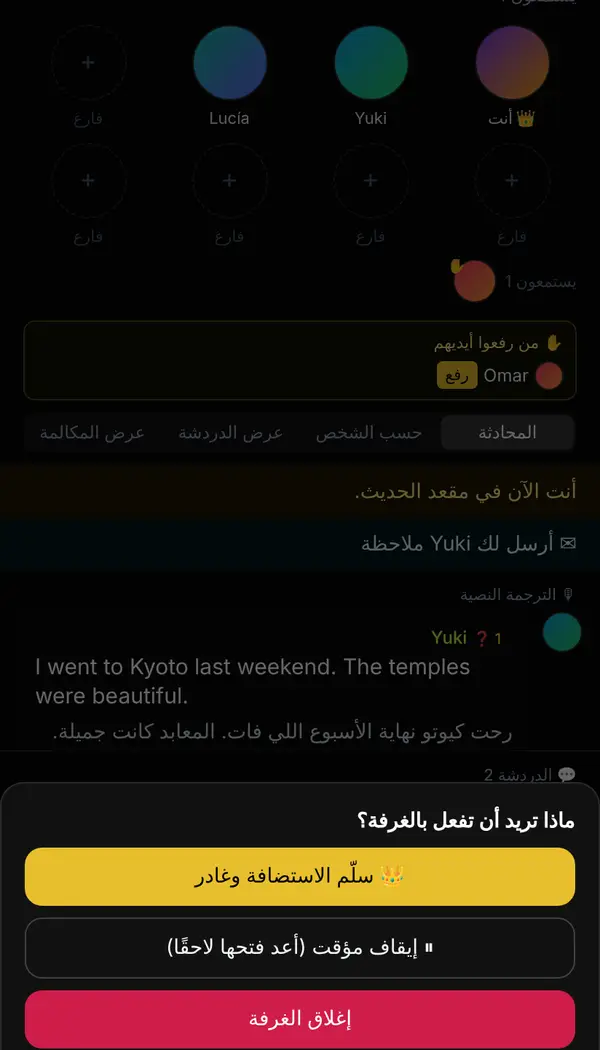
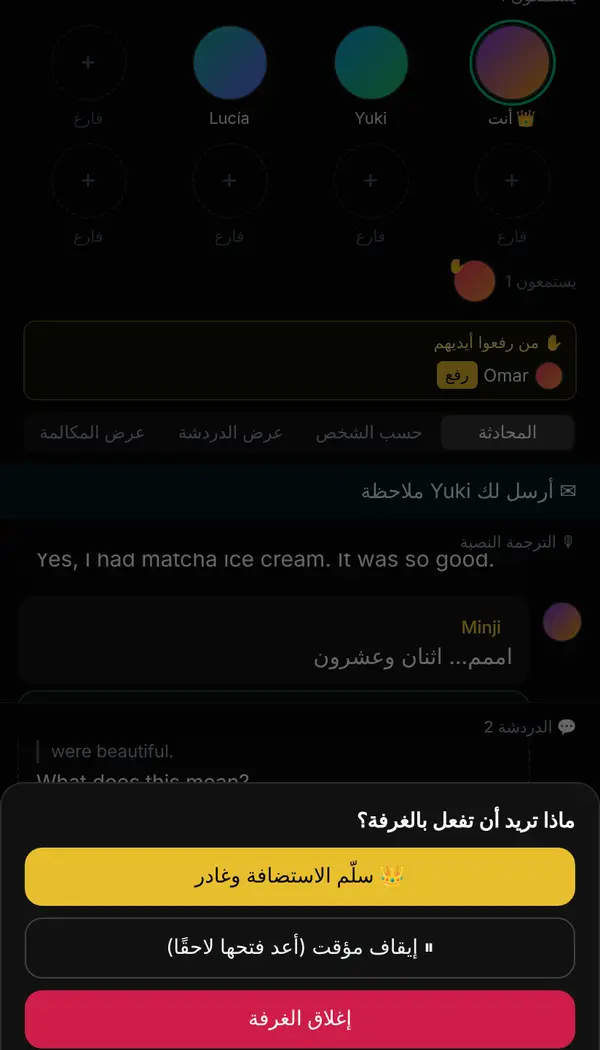
2.69: 💡 힌트를 새로워진 점(8장째)·사용법·캡처에, 같은 라틴 글자 언어 짝도 흔한 낱말로 가르기, 힌트 오면 자막 칸 아래로
Claude-Session: https://claude.ai/code/session_01NBtoqSa6j8KRWBJEzWRKAb

diff --git a/src/lib/copy.ts b/src/lib/copy.ts
@@ -572,6 +572,8 @@ const generatedWhatsNewOverlay = {
   whatsNewLayoutsBody: "At the top, choose “Conversation”, “Chat view”, “Call view” and more. Captions and chat sit in separate boxes, and below you join with “Speak”, “Listen”, “Chat only” or “Voice only”.",
   whatsNewHostTitle: "Hand over or pause a room",
   whatsNewHostBody: "When you leave, “Make host” keeps the room going, or pause it and use “Reopen” in the lobby to open the same room again.",
+  whatsNewHintTitle: "💡 A hint when you’re stuck",
+  whatsNewHintBody: "Say something in your own language in a room and, under that line, only you see “Try saying it like this”. Under “Hints”, choose “Show”, “Just a peek” or “Off”.",
   whatsNewInviteTitle: "Invite friends with a link",
   whatsNewInviteBody: "In My, “➕ Invite friends” sends a link through any messenger. Whoever opens it installs the app, signs in, picks a name and they're in. ➕ in a room invites to that room.",
   whatsNewGroupsTitle: "Group chats and group calls",
@@ -1065,6 +1067,8 @@ export const copy = {
     whatsNewLayoutsBody: "방 위에서 ‘대화 보기’·‘채팅 위주’·‘통화 위주’ 등을 골라요. 자막과 채팅은 칸이 나뉘고, 아래에서 ‘말하기’·‘듣기’·‘채팅만’·‘보이스만’으로 참여 방식을 골라요.",
     whatsNewHostTitle: "방장 넘기기와 잠시 닫기",
     whatsNewHostBody: "나갈 때 ‘방장 넘기기’로 방을 이어 가게 하거나, ‘잠시 닫기’ 뒤 로비에서 ‘다시 열기’로 같은 방을 다시 열어요.",
+    whatsNewHintTitle: "💡 막히면 힌트",
+    whatsNewHintBody: "말하는 방에서 편한 말로 말하면(‘어.. 스물둘..’) 그 줄 아래 나에게만 ‘이렇게 말해 보세요’가 떠요. 아래 ‘힌트’에서 ‘바로 보기’·‘살짝만’·‘끄기’를 골라요.",
     whatsNewInviteTitle: "친구를 링크로 초대",
     whatsNewInviteBody: "‘My’ 위 ‘➕ 친구 초대’로 카카오톡 등에 링크를 보내요. 받은 사람은 앱을 깔고 로그인해 이름만 정하면 바로 들어와요. 방 위 ➕는 그 방으로 초대해요.",
     whatsNewGroupsTitle: "단체방과 단체 통화",
@@ -2247,6 +2251,8 @@ export const copy = {
     whatsNewLayoutsBody: "At the top, choose “Conversation”, “Chat view”, “Call view” and more. Captions and chat sit in separate boxes, and below you join with “Speak”, “Listen”, “Chat only” or “Voice only”.",
     whatsNewHostTitle: "Hand over or pause a room",
     whatsNewHostBody: "When you leave, “Make host” keeps the room going, or pause it and use “Reopen” in the lobby to open the same room again.",
+    whatsNewHintTitle: "💡 A hint when you’re stuck",
+    whatsNewHintBody: "Say something in your own language in a room and, under that line, only you see “Try saying it like this”. Under “Hints”, choose “Show”, “Just a peek” or “Off”.",
     whatsNewInviteTitle: "Invite friends with a link",
     whatsNewInviteBody: "In My, “➕ Invite friends” sends a link through any messenger. Whoever opens it installs the app, signs in, picks a name and they're in. ➕ in a room invites to that room.",
     whatsNewGroupsTitle: "Group chats and group calls",
@@ -3426,6 +3432,8 @@ export const copy = {
     whatsNewLayoutsBody: "Arriba, elige “Conversación”, “Vista chat”, “Vista llamada” y más. Subtítulos y chat van en cuadros separados, y abajo eliges “Hablar”, “Escuchar”, “Solo chat” o “Solo voz”.",
     whatsNewHostTitle: "Cede o pausa la sala",
     whatsNewHostBody: "Al salir, “Ceder anfitrión” mantiene la sala, o pausa y usa “Reabrir” en el inicio para abrir la misma sala otra vez.",
+    whatsNewHintTitle: "💡 Una pista si te atascas",
+    whatsNewHintBody: "Si dices algo en tu idioma en una sala, debajo de esa línea solo tú ves “Prueba a decirlo así”. En “Pistas”, elige “Mostrar”, “Solo un vistazo” o “No”.",
     whatsNewInviteTitle: "Invita a amigos con un enlace",
     whatsNewInviteBody: "En Mi espacio, “➕ Invitar amigos” envía un enlace por cualquier mensajería. Quien lo abre instala la app, inicia sesión, elige un nombre y ya está dentro. ➕ en una sala invita a esa sala.",
     whatsNewGroupsTitle: "Grupos y llamadas en grupo",

diff --git a/src/lib/roleplay/transcript.ts b/src/lib/roleplay/transcript.ts
@@ -137,19 +137,52 @@ export function whichLanguage(text: string, languages: readonly string[]): strin
 }
 
 /**
- * Whether a room line leans on the speaker's own language: their own
- * language's script makes up a real share of it ("어.. 스물둘..", "I'm 스물둘").
- * Only answerable when the two languages are written differently — Spanish and
- * English share letters, so nothing is claimed and no hint is offered.
+ * Small, very common words (and hesitation sounds) of the Latin-script
+ * languages — enough to tell "euh… vingt-deux" from English when both are
+ * written in the same letters. Not a language detector: it only has to notice a
+ * line that is mostly someone's own language.
+ */
+const COMMON_WORDS: Record<string, readonly string[]> = {
+  en: ["the", "a", "i", "you", "is", "are", "and", "to", "of", "it", "in", "my", "what", "how", "yes", "no", "that", "this", "was", "do", "have", "me", "we", "uh", "um", "i'm", "it's"],
+  es: ["el", "la", "los", "las", "de", "que", "y", "es", "en", "un", "una", "yo", "tú", "sí", "mi", "por", "para", "con", "pero", "muy", "qué", "cómo", "tengo", "soy", "estoy", "eh", "bueno", "pues"],
+  fr: ["le", "la", "les", "de", "des", "et", "est", "je", "tu", "un", "une", "pas", "oui", "non", "mon", "ma", "c'est", "que", "qui", "pour", "avec", "mais", "très", "euh", "alors", "j'ai", "suis", "ben"],
+  it: ["il", "la", "lo", "gli", "di", "che", "e", "è", "un", "una", "io", "tu", "non", "sì", "mio", "per", "con", "ma", "molto", "sono", "ho", "ehm", "allora", "cosa", "boh"],
+  pt: ["o", "a", "os", "as", "de", "que", "e", "é", "um", "uma", "eu", "você", "não", "sim", "meu", "para", "com", "mas", "muito", "sou", "tenho", "estou", "então", "né", "tipo"],
+  id: ["aku", "saya", "kamu", "yang", "dan", "di", "ke", "ini", "itu", "tidak", "ya", "ada", "apa", "dengan", "untuk", "sudah", "mau", "eh", "nggak", "gak", "puluh"],
+  vi: ["tôi", "bạn", "là", "và", "của", "có", "không", "này", "đó", "một", "được", "ờ", "à", "thì", "mà", "rồi", "đi", "năm", "mươi"],
+};
+
+function commonShare(words: string[], language: string): number {
+  const list = COMMON_WORDS[language];
+  if (!list || words.length === 0) return 0;
+  return words.filter((word) => list.includes(word)).length / words.length;
+}
+
+/**
+ * Whether a room line leans on the speaker's own language ("어.. 스물둘..",
+ * "I'm 스물둘", "euh… vingt-deux"), so a hint in the language they learn helps.
+ * Written differently: a real share of the own language's script. Written in
+ * the same letters: more of the own language's common words than of the one
+ * being learned. Japanese and Chinese share Han characters, so that pair is
+ * left alone.
  */
 export function leansOnOwnLanguage(text: string, learning: string, own: string): boolean {
+  if (learning === own) return false;
   const learningScript = SCRIPT_OF[learning];
   const ownScript = SCRIPT_OF[own];
-  if (!learningScript || !ownScript || learningScript === ownScript) return false;
-  // 일본어(가나+한자)를 배우는 중국어 사용자: 한자만으로는 가를 수 없다.
+  if (!learningScript || !ownScript) return false;
   if ((learningScript === "kana" && ownScript === "han") || (learningScript === "han" && ownScript === "kana")) return false;
+  if (learningScript === ownScript) {
+    const words = text
+      .toLowerCase()
+      .replace(/[’]/g, "'")
+      .split(/[^\p{L}\p{M}']+/u)
+      .filter(Boolean);
+    const mine = commonShare(words, own);
+    return mine >= 0.25 && mine > commonShare(words, learning);
+  }
   const letters = [...text].filter((character) => /\p{L}/u.test(character));
   if (letters.length === 0) return false;
-  const own_ = letters.filter((character) => RANGES[ownScript].test(character)).length;
-  return own_ / letters.length >= ENOUGH_OF_THE_LANGUAGE;
+  const ownLetters = letters.filter((character) => RANGES[ownScript].test(character)).length;
+  return ownLetters / letters.length >= ENOUGH_OF_THE_LANGUAGE;
 }

diff --git a/src/lib/guide/content.ts b/src/lib/guide/content.ts
@@ -17,7 +17,7 @@
  * language missing there is served the English.
  */
 
-export const GUIDE_VERSION = "2026-10-19b";
+export const GUIDE_VERSION = "2026-10-19c";
 
 export type GuideTabId = "map" | "chat" | "roleplay" | "video" | "vocab" | "rooms";
 
@@ -335,8 +335,10 @@ export const GUIDE_KO: Guide = {
       {
         "heading": "말이 막힐 때",
         "body": [
-          "아래 칸에 편한 말로 쓰고 ‘학습 언어로’를 누르면 문장을 만들어 줘요. 그대로 댓글로 보내거나, 말하기 자리에서 소리 내어 말해 보세요."
-        ]
+          "아래 칸에 편한 말로 쓰고 ‘학습 언어로’를 누르면 문장을 만들어 줘요. 그대로 댓글로 보내거나, 말하기 자리에서 소리 내어 말해 보세요.",
+          "말하는 중에 편한 말이 나오면(‘어.. 스물둘..’) 그 줄 아래 나에게만 ‘이렇게 말해 보세요’가 떠요. 다른 사람에게는 안 보여요. 아래 ‘힌트’에서 ‘바로 보기’·‘살짝만’·‘끄기’를 골라요."
+        ],
+        "shot": "r69-hint"
       },
       {
         "heading": "방장이라면",
@@ -664,8 +666,10 @@ export const GUIDE_EN: Guide = {
       {
         "heading": "When the words won’t come",
         "body": [
-          "Write in your own language in the box below and tap “In my target language” to get a sentence. Send it as a comment, or say it out loud from a talking seat."
-        ]
+          "Write in your own language in the box below and tap “In my target language” to get a sentence. Send it as a comment, or say it out loud from a talking seat.",
+          "If your own language slips out while you talk, only you see “Try saying it like this” under that line; nobody else does. Under “Hints”, choose “Show”, “Just a peek” or “Off”."
+        ],
+        "shot": "r69-hint"
       },
       {
         "heading": "If you’re the host",

diff --git a/src/lib/roleplay/transcript.test.ts b/src/lib/roleplay/transcript.test.ts
@@ -105,8 +105,13 @@ test("말하는 방 힌트: 편한 말이 든 줄만(글자가 다른 두 언어
   assert.equal(leansOnOwnLanguage("I'm twenty-two.", "en", "ko"), false);
   assert.equal(leansOnOwnLanguage("えっと、にじゅうに", "es", "ja"), true);
   assert.equal(leansOnOwnLanguage("ฉันอายุยี่สิบสอง", "en", "th"), true);
-  // 스페인어를 배우는 영어 사용자: 같은 글자라 판단하지 않는다.
-  assert.equal(leansOnOwnLanguage("I am twenty two", "es", "en"), false);
+  // 같은 글자(라틴)끼리는 흔한 낱말로: 프랑스어로 말한 영어 학습자, 영어로 말한 스페인어 학습자.
+  assert.equal(leansOnOwnLanguage("euh… vingt-deux", "en", "fr"), true);
+  assert.equal(leansOnOwnLanguage("Je suis allé à la plage", "en", "fr"), true);
+  assert.equal(leansOnOwnLanguage("uh... I'm twenty-two", "es", "en"), true);
+  assert.equal(leansOnOwnLanguage("ờ… hai mươi hai", "en", "vi"), true);
+  assert.equal(leansOnOwnLanguage("Tengo veintidós años", "es", "en"), false);
+  assert.equal(leansOnOwnLanguage("I went to the beach last weekend.", "en", "fr"), false);
   // 일본어를 배우는 중국어 사용자: 한자만으로는 못 가른다.
   assert.equal(leansOnOwnLanguage("二十二", "ja", "zh"), false);
 });

diff --git a/src/lib/whatsNew.ts b/src/lib/whatsNew.ts
@@ -48,6 +48,7 @@ export const RELEASE_NOTES: ReleaseNote[] = [
       { id: "freetalk", title: "whatsNewFreeTalkTitle", body: "whatsNewFreeTalkBody", shot: "freetalk", tab: "rooms" },
       { id: "quote", title: "whatsNewQuoteTitle", body: "whatsNewQuoteBody", shot: "quote", tab: "rooms" },
       { id: "layouts", title: "whatsNewLayoutsTitle", body: "whatsNewLayoutsBody", shot: "layouts", tab: "rooms" },
+      { id: "hint", title: "whatsNewHintTitle", body: "whatsNewHintBody", shot: "hint", tab: "rooms" },
       { id: "host", title: "whatsNewHostTitle", body: "whatsNewHostBody", shot: "host", tab: "rooms" },
     ],
   },

diff --git a/src/components/rooms/RoomParts.tsx b/src/components/rooms/RoomParts.tsx
@@ -553,11 +553,13 @@ export function Lines({
   const ordered = useMemo(() => timeline(lines), [lines]);
   const groups = useMemo(() => byPerson(lines), [lines]);
 
+  // 💡 힌트가 오면 그 카드까지 보이게(내 마지막 줄 아래라 맨 아래로).
+  const hintCount = Object.keys(hints ?? {}).length;
   useEffect(() => {
     if (view !== "timeline") return;
     const node = scroller.current;
     if (node) node.scrollTop = node.scrollHeight;
-  }, [ordered.length, view]);
+  }, [ordered.length, view, hintCount]);
 
   const toggle = async (line: RoomLine) => {
     if (line.seq in open) {

diff --git a/PRODUCT.md b/PRODUCT.md
@@ -235,7 +235,7 @@
   댓글(편한 말 → "학습 언어로"), 마이크·손들기. **참여 방식(사람마다, 아래 줄):** 🎙 말하기(자리 없으면 손들기) / 👂 듣기 / 💬 채팅만(소리를 잇지 않음 — 서버에 `textOnly`, 다른 사람도 그 사람과 음성 연결 안 함, 듣는 줄에 💬) / 🔇 보이스만(채팅 칸·입력창 숨김, 누가 내 말을 물으면 위에 "❓ …님이 내 말을 물어봤어요 · 💬 채팅"). 방장은 듣기·채팅만을 못 고름.
   방 위 👥 "이 방 사람들과 단체방": 지금 있는 계정 있는 사람을 모두 초대한 단체방을 만든다(워크스페이스 4단계, 이후 메시지 탭에서). **자막과 채팅은 칸이 나뉜다**(위 🎙 자막 = 받아쓴 말, 아래 💬 채팅 = 쓴 댓글, 각자 따로 스크롤, 질문 수·번역 맥락은 둘을 합쳐서; 채팅 위주는 채팅 칸이 크고, 통화 위주는 "💬 댓글 쓰기"를 눌러야 채팅 칸이 열림). **보는 방식 4가지**(방 위 버튼, 사람마다 고르고 기기에 기억, `lib/rooms/layout.ts`): 대화 보기(그룹) / 사람별 보기 / 채팅 위주(자리 격자 대신 얼굴 한 줄, 자막 글자 크게) / 통화 위주(자리 크게, 자막은 마지막 3줄, 댓글창은 "💬 댓글 쓰기"를 눌러서). 보는 것만 다르고 줄·질문·쪽지는 같은 방 기록. 방장은 바로 말하고 다른 사람은 손을 들어 방장이 올려 줘야 말한다(방장이 없으면 누구나). 방장이 앱을 다시 열어도 계정으로 방장 유지. 방장은 말하기 자리에서 내려가지 않는다(조용히 하려면 마이크 끄기, 서버도 막음). 방장의 "방 닫기" → 고르기: 👑 방장 넘기고 나가기(말하기 자리의 사람에게) / ⏸ 잠시 닫기(설정 — 이름·언어·내보낸 사람 — 만 방장 계정에 30일, 최대 5개, 로비 맨 위 "내 방 · 잠시 닫음 → 다시 열기"로 같은 방 번호) / 방 닫기. 방이 닫히면 남은 사람은 "방이 닫혔어요", 목록에서 사라지고 자막 줄도 지운다(1:1 통화 방은 제외). 방장은 프로필 시트에서도 "방장 넘기기"(한 번 더 눌러 확인), 받은 사람에게 "방장이 됐어요". 아무도 없는 방은 1분 뒤 목록에서 빠진다. 방 화면 위 "작게"로 방에 있는 채로 접고 다른 탭을 쓸 수 있다(연결·마이크·자막 그대로, 탭 바 바로 위 막대를 누르면 방으로, `lib/rooms/miniRoom.ts`). 화면을 끄거나 다른 앱으로 나가면 안드로이드가 앱을 멈춰 끊긴다 — 계속하려면 포그라운드 서비스(마이크)와 Play 신고가 필요(아직 안 함).
   사람(사진)을 누르면 프로필 시트: 사진·닉네임·자기소개·언어·가입 달·팔로워/팔로잉/연 방/올려 준 사람 수, 팔로우, 차단(서로 팔로우 끊김·줄 가림), 신고(이유 5개, 최근 줄 5개 첨부, 90일),
-  방장이면 올리기/내리기/내보내기(그 방 다시 못 들어옴). 음성은 사람끼리 직접(WebRTC, 중계 서버 없음), 자막은 각자 자기 마이크만 받아쓴다(`/api/roleplay/listen` `room:true` + 방의 언어 — 방 언어 어느 쪽 글자도 아닌 자막(영어·한국어 방의 "ハイハイ")은 지어낸 것으로 보고 방 첫 언어로 한 번 다시 받아씀). 틀린 말은 고치지 않고 들린 그대로 적는다(통화 학습과 같음). 자유 대화방은 방 언어 대신 **말하는 사람의 두 언어**(학습 언어·앱 언어)로 같은 검사를 하고, 글자로 가를 수 있으면 줄 이름 옆에 그 언어를 작게 붙인다(`whichLanguage`, 같은 글자를 쓰는 두 언어 — 스페인어·영어 — 는 안 붙임). 번역은 그대로 보는 사람의 앱 언어로.
+  방장이면 올리기/내리기/내보내기(그 방 다시 못 들어옴). 음성은 사람끼리 직접(WebRTC, 중계 서버 없음), 자막은 각자 자기 마이크만 받아쓴다(`/api/roleplay/listen` `room:true` + 방의 언어 — 방 언어 어느 쪽 글자도 아닌 자막(영어·한국어 방의 "ハイハイ")은 지어낸 것으로 보고 방 첫 언어로 한 번 다시 받아씀). 틀린 말은 고치지 않고 들린 그대로 적는다(통화 학습과 같음). 자유 대화방은 방 언어 대신 **말하는 사람의 두 언어**(학습 언어·앱 언어)로 같은 검사를 하고, 글자로 가를 수 있으면 줄 이름 옆에 그 언어를 작게 붙인다(`whichLanguage`, 같은 글자를 쓰는 두 언어 — 스페인어·영어 — 는 안 붙임). 번역은 그대로 보는 사람의 앱 언어로. **💡 힌트(본인만, 2026-10-19):** 말하기 자리에서 편한 말이 든 줄(‘어.. 스물둘..’, `leansOnOwnLanguage` — 글자가 다르면 글자 비율, 같은 라틴 글자면 흔한 낱말, 일본어↔중국어는 안 함)을 말하면 앞 대화를 맥락으로 배우는 언어 문장을 만들어 그 줄 아래 나에게만 ‘이렇게 말해 보세요’ 카드(`/api/chat` how_to_say 카드 길, `purpose: roomHint`, 하루 40번, 채팅 한도 안 셈, 저장 안 함). 아래 ‘💡 힌트’ 바로 보기·살짝만(첫 낱말)·끄기(기기에 기억), 카드에서 ‘이걸로 보내기’로 댓글. 방의 다른 사람에게는 안 보인다.
   줄을 누르면 앞 줄 맥락으로 앱 언어 번역, 남의 줄이면 그 아래 "❓ 무슨 뜻이에요?"·"↩ 답하기"(`lib/rooms/quote.ts`): 그 줄이 댓글창 위에 인용으로 붙고, 묻기면 묻는 사람의 학습 언어 질문 문장(고정 문구, 모델 안 부름)이 미리 채워짐.
   "✉ 쪽지로 묻기"는 같은 인용을 그 줄을 말한 사람과의 1:1 메시지로(질문 미리 채움, 말풍선에 "🎙 말하는 방에서", 30일), 받는 사람이 방에 있으면 위에 "…님이 쪽지를 보냈어요"(누르면 대화). 보내면 댓글에 인용이 붙고(인용 글은 서버가 방 기록에서 채움), 집힌 줄 옆에 ❓ 수, 말한 사람에게는 그 질문이 노란 테두리 "…님이 내 말을 물어봤어요". 답은 목소리로 하거나 그 질문을 "답하기". 문구는 14개 언어(`src/lib/rooms/copy.ts`·`copy.locales.ts`, Claude가 씀 — 원어민 확인 권장). 기획: `hub/drafts/voice-room-workspace.md`.
   하단 탭 이름(2026-10-19, 사용자 요청): 사람 → **My**(각 언어의 My와 같은 말, 예: ja マイ·es Mi espacio), 말하는 방 → **Room**(ko·en, 다른 언어는 그대로). 화면 제목·안의 글은 그대로 "말하는 방".
@@ -340,7 +340,7 @@
 | 2.64 | 새로워진 점 안내(UI 언어별 캡처) |
 | 2.65 | 지도 미션, 표현의 세 상태(숙지·배운 것·알아야 할 것)와 복습, 자주 틀리는 것이 지도에 들어가고 추천 순서가 진행 따라 바뀜, 통화 이어 말하기 대기와 "이렇게 말하려던 거죠?", 지도 카드에서 칸 이름(A1) 뺌 |
 | 2.66 | "내 표현"(표현 장부·주별 성장), 탭 연결(어디서 만난 표현인지·튜터가 배운 표현 다시 쓰기), 문장분석의 알아요·모르겠어요·지도에 넣기("내가 고른 것"), 통화 해석 접기·도움말 따로·내 문장 다시 말해보기 |
-| 2.69 | 하단 탭 두 묶음(AI와 학습 / 사람과 학습: My·Room·메시지 — 탭 이름은 2.69에서 사람→My, 말하는 방→Room), 친구 초대 링크(앱 없는 사람도, 방 초대), 단체방(최대 20명)·단체 통화·통화 기록, 🌐 자유 대화방, 방 목록 언어 거르기, 방 보기 4가지, 자막 칸·채팅 칸 나눔, 참여 방식(말하기·듣기·채팅만·보이스만), 이 방 사람들과 단체방, 줄을 집어 묻기(❓·답하기·✉ 쪽지로 묻기), 방장 넘기기·잠시 닫기 → 다시 열기, 방 자막 언어, 작게 접기, 새로워진 점 7장, 사용법 Room 7단계(2.68 이하는 옛 안내 `roomsBefore269.json`) |
+| 2.69 | 하단 탭 두 묶음(AI와 학습 / 사람과 학습: My·Room·메시지 — 탭 이름은 2.69에서 사람→My, 말하는 방→Room), 친구 초대 링크(앱 없는 사람도, 방 초대), 단체방(최대 20명)·단체 통화·통화 기록, 🌐 자유 대화방, 방 목록 언어 거르기, 방 보기 4가지, 자막 칸·채팅 칸 나눔, 참여 방식(말하기·듣기·채팅만·보이스만), 이 방 사람들과 단체방, 💡 힌트(본인만), 줄을 집어 묻기(❓·답하기·✉ 쪽지로 묻기), 방장 넘기기·잠시 닫기 → 다시 열기, 방 자막 언어, 작게 접기, 새로워진 점 8장, 사용법 Room 7단계(2.68 이하는 옛 안내 `roomsBefore269.json`) |
 | 2.68 | 하단 "말하는 방" 탭(목록·자리 8칸·사람별 자막·줄 번역·댓글과 학습 언어로·손들기/방장 승인), 프로필 시트(팔로우·차단·신고·내보내기), 1:1 메시지(요청함·30일)와 대화 안 통화·통화 기록, 사람 목록(최근 접속자 프로필·팔로우·메시지), 아이디 로그인과 프로필(사진·닉네임·자기소개), 방·메시지 문구 14개 언어, 사용법에 말하는 방 |
 | 2.67 | (내부 테스트만) 첫 탭이 My(자라는 요소 망·요소 시트·직접 묻기·망/그래프/지도 보기), "오늘 해볼 것"과 오늘의 팩(하루 한 번 약 7분 대화 + 돌아보기), 체크로 시작하는 지도(수준 고르기 없음), 영상 자막은 학습 언어만·번역은 문장 바로, 요금 셋(라이트 3,900·플러스 5,500·프리미엄), 의견 보내기, 통화 맞장구 두 줄, 사용법(?) 단계별 그림 |
 

diff --git a/hub/log/2026-10.md b/hub/log/2026-10.md
@@ -1055,3 +1055,11 @@
 - 확인: test:rooms 53, tsc·check:design·check:languages·overlay check 0, build:capacitor. 브라우저(로컬 API + 정적 빌드, 이름 없는 시험 계정): en 학습·ja 앱 이름 "Lucía" → 入る → マイ 탭, 이름 저장, 팔로우 0 / th 학습·ko 앱 "민 ✨" + 방 초대 → 방 열림, 팔로우 0 / es 학습·ar 앱 로그인 전 → 계정 카드 — 통과.
 - 남은 것: 새로워진 점 캡처는 2.69 자를 때 찍은 그림 그대로(글만 바뀜), 들어간 직후 "새로워진 점"이 그 위에 뜸(순서는 사용자 판단).
 - 커밋/브랜치: main
+
+## 2026-10-19 · dev · 말하는 방 💡 힌트(본인만) — 2.69에 넣음
+- 한 일: 사용자 제안("어.. 스물둘.. → 22 years old처럼 느슨한 힌트" → "2.69에 본인만 보는 쪽으로"). 서버(바로 반영): `/api/chat` how_to_say 카드에 `purpose: "roomHint"` — op `roomHint`(modelCalls·opCost), 하루 40번(`server/roomHint.ts`, 숫자만 셈), 채팅 한도 안 셈.
+  앱(2.69): 내 말 줄이 편한 말에 기대면(`leansOnOwnLanguage`: 글자 다르면 글자 비율 20%, 같은 라틴 글자면 흔한 낱말 25%, ja↔zh 제외) 앞 6줄 맥락으로 힌트 → 그 줄 아래 나에게만 "💡 이렇게 말해 보세요" + 이걸로 보내기·닫기, 아래 "💡 힌트" 바로 보기/살짝만(첫 낱말, wordSegments)/끄기(기기에 기억). 힌트 오면 자막 칸 아래로.
+  문구 7개(방) + 새로워진 점 1장(hint) × 14개 언어, 캡처(가짜 마이크 `CAPTURE_MIC_WAV`, 받아쓰기는 고정 응답, 힌트는 운영), 사용법 '말이 막힐 때'에 글·그림 `r69-hint`, 출시 노트 83에 한 줄(PR #9), PRODUCT.md.
+- 확인: 운영 API로 7조합(ko→en "어.. 스물둘.."→"Uh, twenty-two.", ar→es "Tengo veintidós años.", th→en, ko→ja, zh→en, ja→en) 통과. transcript 11·layout 3·rooms 53·billing 124, tsc·lint·check:design·check:languages·check:store. 캡처 14개 언어 모두 힌트 카드 뜸(라틴 짝 en/es/vi/fr/it/pt/id 포함).
+- 못 한 것: 실제 폰·마이크로 말해 보기, 하루 40번 상한을 끝까지 채워 보기(단위 테스트 없음).
+- 커밋/브랜치: main + store/release-notes-83
